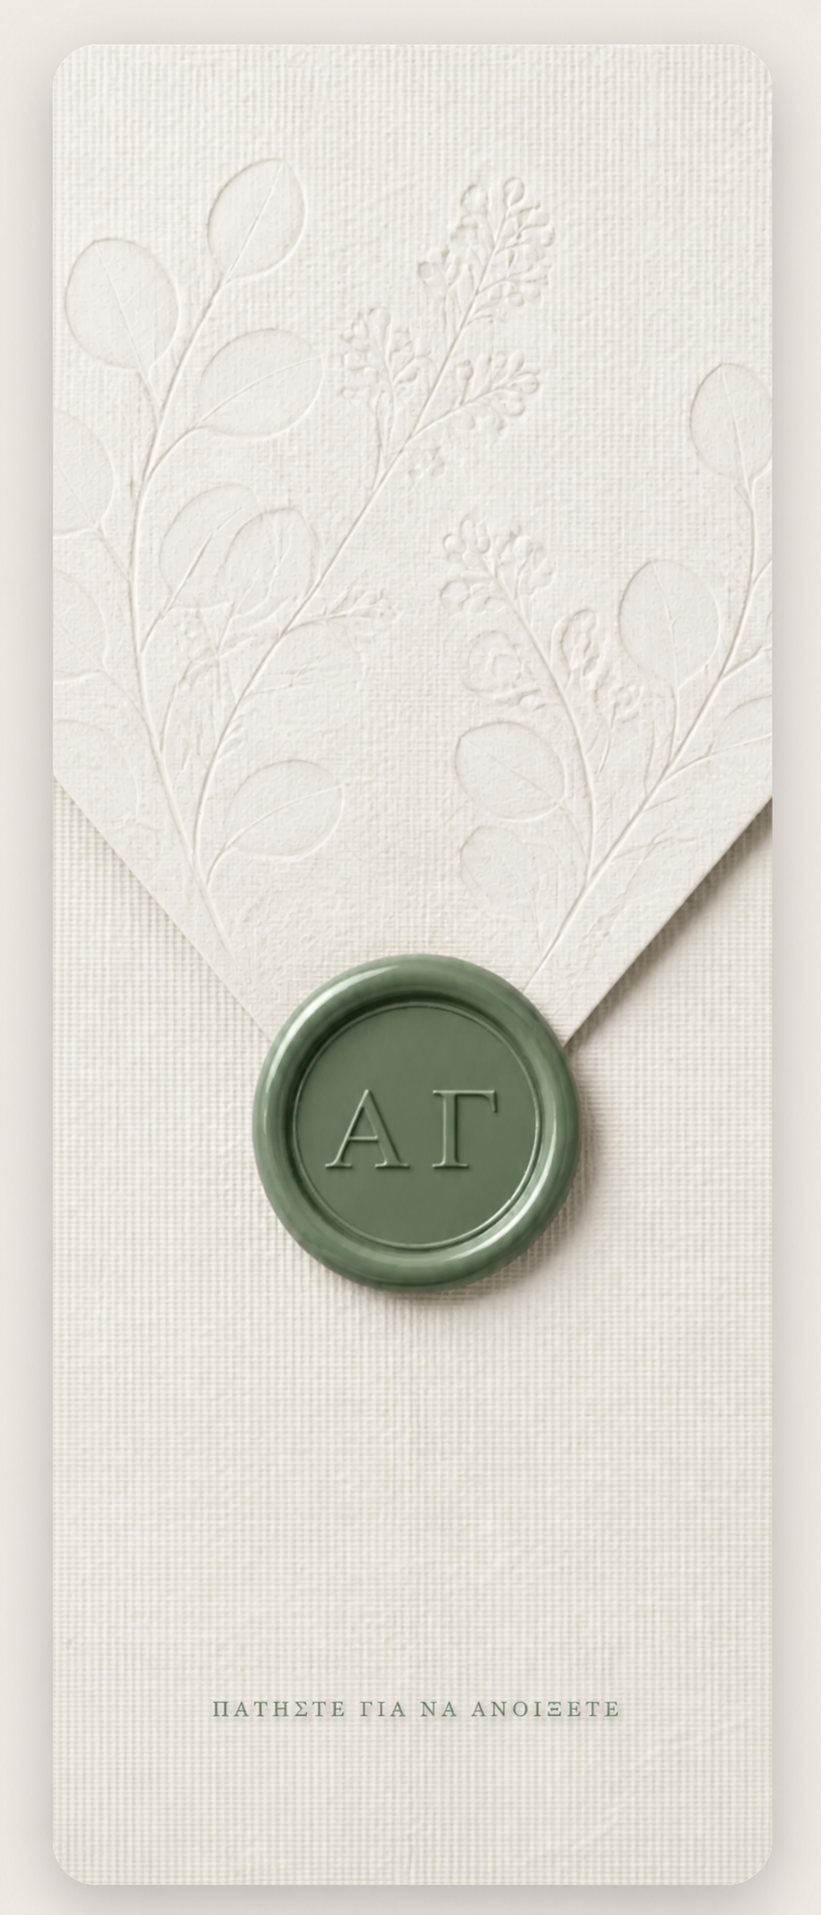
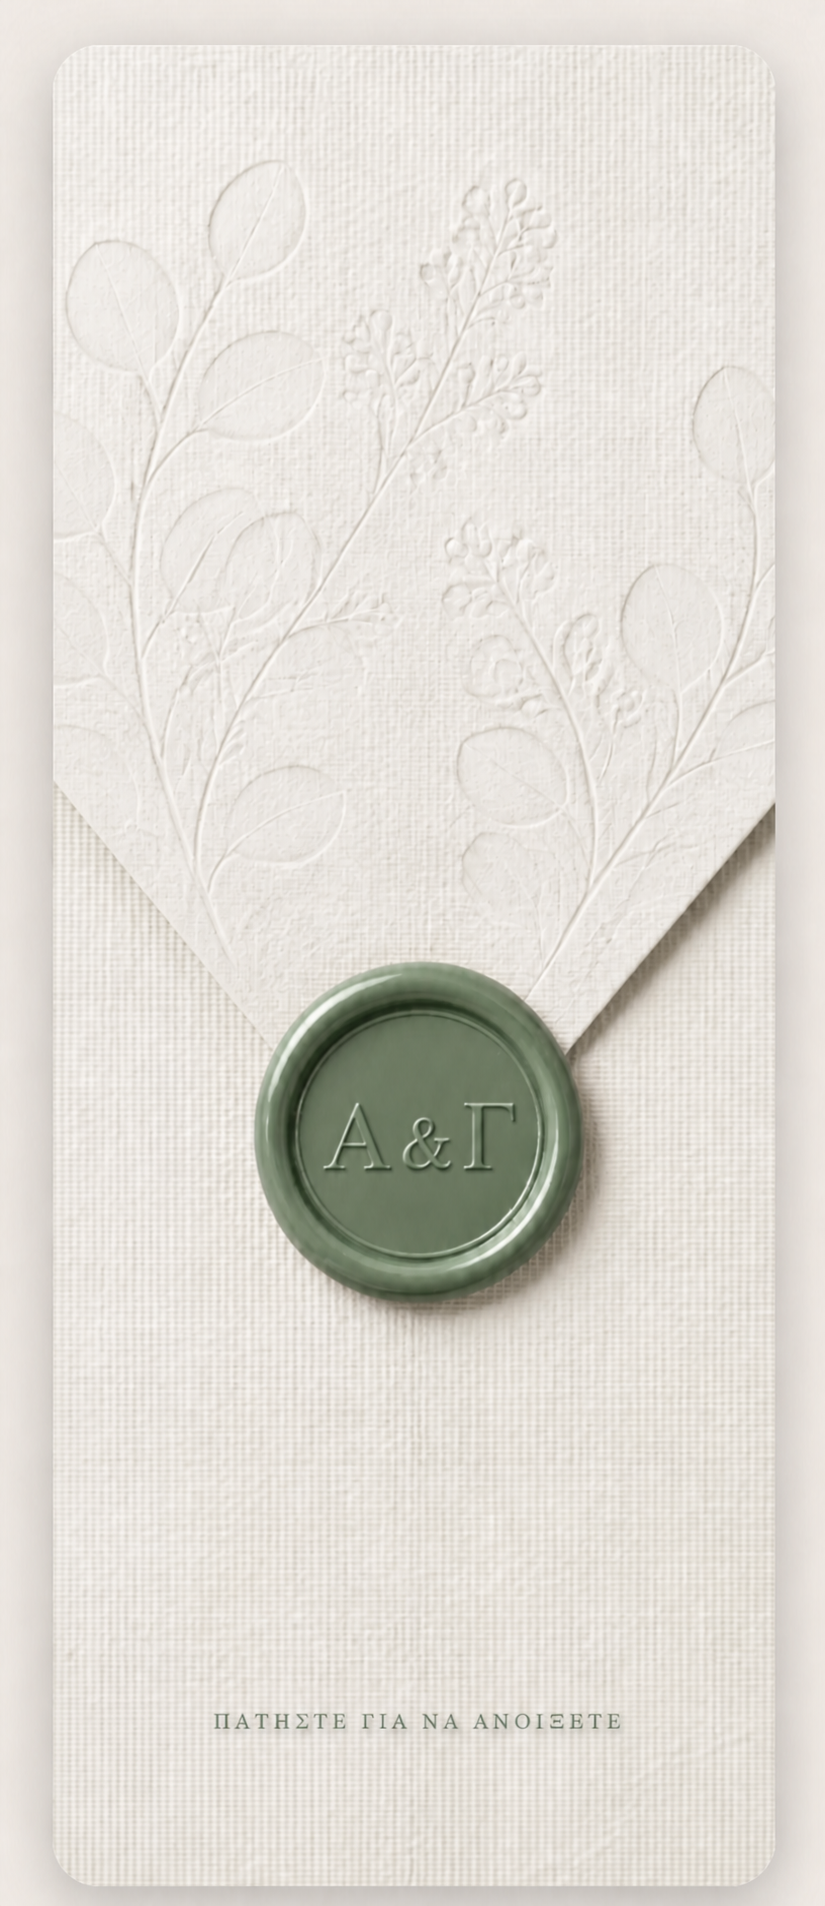
Apply final invitation revisions and engraved A & G seals

diff --git a/index.html b/index.html
@@ -1,10 +1,10 @@
-<!doctype html><html lang="el"><head><meta charset="utf-8"><meta http-equiv="Cache-Control" content="no-cache, no-store, must-revalidate"><meta http-equiv="Pragma" content="no-cache"><meta http-equiv="Expires" content="0"><meta name="viewport" content="width=device-width,initial-scale=1"><script>(function(){var n=performance.getEntriesByType&&performance.getEntriesByType('navigation')[0];var u=new URL(location.href);if(n&&n.type==='reload'&&!u.searchParams.has('_fresh')){u.searchParams.set('_fresh',Date.now());location.replace(u.href)}})()</script><meta name="theme-color" content="#566e55"><title>Αχιλλέας & Γεωργία | 08.11.2026</title><meta name="description" content="Το ηλεκτρονικό προσκλητήριο γάμου του Αχιλλέα και της Γεωργίας"><link rel="preconnect" href="https://fonts.googleapis.com"><link rel="preconnect" href="https://fonts.gstatic.com" crossorigin><link href="https://fonts.googleapis.com/css2?family=Great+Vibes&family=Noto+Serif:wght@300;400;500&display=swap" rel="stylesheet"><link rel="preload" href="envelope-ag-landscape.png?v=29" as="image" fetchpriority="high"><link rel="stylesheet" href="design.css?v=29"><link rel="stylesheet" href="fix.css?v=29"><link rel="stylesheet" href="contrast.css?v=29"><link rel="stylesheet" href="responsive.css?v=29"></head>
+<!doctype html><html lang="el"><head><meta charset="utf-8"><meta http-equiv="Cache-Control" content="no-cache, no-store, must-revalidate"><meta http-equiv="Pragma" content="no-cache"><meta http-equiv="Expires" content="0"><meta name="viewport" content="width=device-width,initial-scale=1"><script>(function(){var n=performance.getEntriesByType&&performance.getEntriesByType('navigation')[0];var u=new URL(location.href);if(n&&n.type==='reload'&&!u.searchParams.has('_fresh')){u.searchParams.set('_fresh',Date.now());location.replace(u.href)}})()</script><meta name="theme-color" content="#566e55"><title>Αχιλλέας & Γεωργία | 08.11.2026</title><meta name="description" content="Το ηλεκτρονικό προσκλητήριο γάμου του Αχιλλέα και της Γεωργίας"><link rel="preconnect" href="https://fonts.googleapis.com"><link rel="preconnect" href="https://fonts.gstatic.com" crossorigin><link href="https://fonts.googleapis.com/css2?family=Great+Vibes&family=Noto+Serif:wght@300;400;500&display=swap" rel="stylesheet"><link rel="preload" href="envelope-ag-landscape.png?v=33" as="image" fetchpriority="high"><link rel="stylesheet" href="design.css?v=33"><link rel="stylesheet" href="fix.css?v=33"><link rel="stylesheet" href="contrast.css?v=33"><link rel="stylesheet" href="responsive.css?v=33"></head>
 <body class="locked"><section class="intro" id="intro"><button class="envelope" id="envelope" aria-label="Ανοίξτε το προσκλητήριο"><span class="env-back"></span><span class="letter"><img src="printed-invitation.jpg" alt="Έντυπο προσκλητήριο Αχιλλέα και Γεωργίας"></span><span class="env-front"></span><span class="flap"></span><span class="seal">Α &amp; Γ</span></button><p class="tap">Πατήστε τη σφραγίδα</p></section>
 <main id="content" aria-hidden="true">
   <section class="date-hero section"><img class="scroll-flower flower-top" data-base="-18" src="flower-sprig.png?v=2" alt=""><img class="scroll-flower flower-bottom" data-base="162" src="flower-sprig.png?v=2" alt=""><div class="date-stack reveal-down" aria-label="Αχιλλέας και Γεωργία, 8 Νοεμβρίου 2026"><span class="hero-number">08</span><b class="groom-name">Αχιλλέας</b><div class="middle-date"><span class="hero-number">11</span><i>&amp;</i></div><b class="bride-name">Γεωργία</b><span class="hero-number">26</span></div></section>
   <section class="countdown-section section reveal-up" id="countdown"><h2>Και μετράμε αντίστροφα για τον γάμο μας!</h2><div class="countdown"><div><b id="days">—</b><small>Ημέρες</small></div><div><b id="hours">—</b><small>Ώρες</small></div><div><b id="minutes">—</b><small>Λεπτά</small></div><div><b id="seconds">—</b><small>Δ/λεπτα</small></div></div></section>
-  <section class="invitation section floral-section"><div class="photo-panel"></div><div class="invite-card"><p class="verse">«…πάντα στέγει, πάντα πιστεύει,<br>πάντα ελπίζει, πάντα υπομένει.<br>η αγάπη ουδέποτε εκπίπτει»</p><span class="divider">❧ ♥ ❧</span><p>Την ημέρα που ο Θεός θα ευλογήσει<br>το καινούργιο μας ξεκίνημα,<br>θα ήταν μεγάλη χαρά για μας<br>η παρουσία και η προσευχή σας<br>στο μυστήριο του γάμου μας</p><h1><span>Αχιλλέας</span><i>&amp;</i><span>Γεωργία</span></h1><h3>την Κυριακή 8 Νοεμβρίου 2026</h3><p class="ceremony-copy">και ώρα 13:00<br>στον Ιερό Ναό Αγίου Νικολάου<br>Λαγυνών</p><div class="people"><div><h2>Οικογένειες</h2><p>Αντωνίου &amp; Ελένης Νοβρατίδη<br>Γρηγορίου &amp; Αικατερίνης Μπάγκαβου</p></div><div><h2>Κουμπάροι</h2><p>Αλέξανδρος &amp; Μαρία Δήμου</p></div></div></div></section>
-  <section class="wedding-day section reveal-up"><h2>Η Μέρα του Γάμου</h2><span class="day-star">✦</span><div class="day-cards"><article class="day-card"><span class="day-icon">❀</span><h3>Γάμος</h3><strong>1:00 μ.μ.</strong><p>8 Νοεμβρίου 2026</p><h4>Ιερός Ναός Αγίου Νικολάου</h4><p>Λαγυνά</p><a target="_blank" rel="noopener" href="https://www.google.com/maps/search/?api=1&query=%CE%99%CE%B5%CF%81%CF%8C%CF%82+%CE%9D%CE%B1%CF%8C%CF%82+%CE%91%CE%B3%CE%AF%CE%BF%CF%85+%CE%9D%CE%B9%CE%BA%CE%BF%CE%BB%CE%AC%CE%BF%CF%85+%CE%9B%CE%B1%CE%B3%CF%85%CE%BD%CF%8E%CE%BD">📍 Δείτε στον χάρτη</a></article><article class="day-card"><span class="day-icon">♡</span><h3>Δεξίωση</h3><strong>Ακολουθεί</strong><p>Γεύμα &amp; Χορός</p><h4>Grand Salle</h4><p>Δρυμός</p><a target="_blank" rel="noopener" href="https://maps.app.goo.gl/nHdgFNsESnZWbSZi7">📍 Δείτε στον χάρτη</a></article></div></section>
+  <section class="invitation section floral-section"><div class="photo-panel"></div><div class="invite-card"><p>Την ημέρα που ο Θεός θα ευλογήσει<br>το καινούργιο μας ξεκίνημα,<br>θα ήταν μεγάλη χαρά για μας<br>η παρουσία και η προσευχή σας<br>στο μυστήριο του γάμου μας</p><h1><span>Αχιλλέας</span><i>&amp;</i><span>Γεωργία</span></h1><h3>την Κυριακή 8 Νοεμβρίου 2026</h3><p class="ceremony-copy">και ώρα 13:00<br>στον Ιερό Ναό Αγίου Νικολάου<br>Λαγυνών</p><div class="people"><div><h2>Οικογένειες</h2><p>Αντωνίου &amp; Ελένης Νοβρατίδη<br>Γρηγορίου &amp; Αικατερίνης Μπάγκαβου</p></div><div><h2>Κουμπάροι</h2><p>Αλέξανδρος &amp; Μαρία Δήμου</p></div></div></div></section>
+  <section class="wedding-day section reveal-up"><h2>Η Μέρα του Γάμου</h2><span class="day-star">✦</span><div class="day-cards"><article class="day-card"><span class="day-icon">❀</span><h3>Γάμος</h3><strong>1:00 μ.μ.</strong><p>8 Νοεμβρίου 2026</p><h4>Ιερός Ναός Αγίου Νικολάου</h4><p>Λαγυνά</p><a target="_blank" rel="noopener" href="https://www.google.com/maps/search/?api=1&query=%CE%99%CE%B5%CF%81%CF%8C%CF%82+%CE%9D%CE%B1%CF%8C%CF%82+%CE%91%CE%B3%CE%AF%CE%BF%CF%85+%CE%9D%CE%B9%CE%BA%CE%BF%CE%BB%CE%AC%CE%BF%CF%85+%CE%9B%CE%B1%CE%B3%CF%85%CE%BD%CF%8E%CE%BD">📍 Δείτε στον χάρτη</a></article><article class="day-card"><span class="day-icon">♡</span><h3>Δεξίωση</h3><strong>Ακολουθεί</strong><p>Γεύμα &amp; Χορός</p><h4>Grand Salle</h4><p>Δρυμός</p><a target="_blank" rel="noopener" href="https://maps.app.goo.gl/nHdqFNsESnZWbSZi7">📍 Δείτε στον χάρτη</a></article></div></section>
   <section class="rsvp section reveal-up"><div class="rsvp-card"><h2>Σας περιμένουμε στη χαρά μας</h2><p>Παρακαλούμε ενημερώστε μας για την παρουσία σας στη δεξίωση<br>έως τις 18 Οκτωβρίου.</p><div class="rsvp-phones"><a href="tel:+306983738992">☎ Αχιλλέας: 698 373 8992</a><a href="tel:+306989740316">☎ Γεωργία: 698 974 0316</a></div><p>Ή συμπληρώνοντας την παρακάτω φόρμα</p><form id="rsvpForm"><label>Ονοματεπώνυμο<input name="name" required autocomplete="name"></label><label>Τηλέφωνο<input name="phone" type="tel" required autocomplete="tel"></label><fieldset><legend>Θα έρθετε στη δεξίωση;</legend><label class="choice"><input type="radio" name="attendance" value="Ναι" required> Ναι</label><label class="choice"><input type="radio" name="attendance" value="Όχι"> Όχι</label></fieldset><label>Αν ΝΑΙ, πόσα άτομα να σημειώσουμε;<select name="guests"><option>0</option><option>1</option><option>2</option><option>3</option><option>4</option><option>5</option><option>6</option><option>7</option><option>8</option><option>9</option></select></label><label>Κάτι που θέλετε να μας πείτε…<textarea name="message" rows="3"></textarea></label><button type="submit">Αποστολή</button><p id="formStatus" role="status"></p></form></div></section>
   <section class="gift section reveal-up"><p class="small-title">Προαιρετική Λίστα Γάμου</p><p class="gift-intro">Η παρουσία σας είναι το μεγαλύτερο δώρο για εμάς.<br><br>Εάν επιθυμείτε να μας χαρίσετε κάτι, θα χαρούμε να το κάνετε μέσω:</p><div class="gift-options"><div class="bank-card"><span class="bank-icon">€</span><h3>Eurobank</h3><button class="copy-gift" data-gift="IBAN" data-copy="GR8302604340000110201088906">GR83 0260 4340 0001 1020 1088 906</button><p class="copy-status">Πατήστε για αντιγραφή</p></div><div class="bank-card"><span class="bank-icon">€</span><h3>Τράπεζα Πειραιώς</h3><button class="copy-gift" data-gift="IBAN" data-copy="GR7601722490005249097664079">GR76 0172 2490 0052 4909 7664 079</button><p class="copy-status">Πατήστε για αντιγραφή</p></div><div class="bank-card"><span class="bank-icon">✦</span><h3>IRIS Payments</h3><button class="copy-gift" data-gift="IRIS" data-copy="6989740316">698 974 0316</button><p class="copy-status">Πατήστε για αντιγραφή</p></div></div><div class="gift-space" aria-hidden="true"></div></section>
   <section class="album section floral-bg"><h2>Οι στιγμές μας</h2><p>Βοηθήστε μας να δημιουργήσουμε ένα μοναδικό ψηφιακό άλμπουμ, γεμάτο χαμόγελα, συγκινήσεις και αυθόρμητες στιγμές!</p><button type="button" class="soft-button">Ανεβάστε φωτογραφίες</button><p id="uploadStatus" role="status"></p></section>

diff --git a/responsive.css b/responsive.css
@@ -22,8 +22,8 @@ footer.section{background:linear-gradient(145deg,#415847,#24382e)!important}foot
 @media(max-width:760px){.date-stack{line-height:.67!important}.date-stack b{font-size:clamp(3.55rem,16vw,5.5rem)!important;margin:-.16em 0 .03em!important}.date-stack i{font-size:2.1rem!important;margin:-.5em 0 .02em!important}.date-stack .bride-name{margin-top:.7em!important}.date-stack span{font-size:clamp(7.4rem,37vw,12rem)!important}.gift-options{display:grid!important;grid-template-columns:1fr!important}.gift-options .bank-card{width:100%;max-width:none;flex:auto}.scroll-flower{width:150px}.letter{width:min(88vw,520px)!important}}
 
 /* Exact reference envelope artwork; fades away while the real invitation rises. */
-.envelope:before{content:''!important;position:absolute!important;inset:0!important;width:100%!important;height:100%!important;z-index:9!important;background-color:#ebe5dd!important;background-image:url('envelope-ag-landscape.png?v=1')!important;background-position:center!important;background-repeat:no-repeat!important;background-size:cover!important;opacity:1!important;mix-blend-mode:normal!important;transition:opacity .8s .45s,transform 1.1s .25s!important}
-@media (max-aspect-ratio: 4/5){.envelope:before{background-image:url('envelope-ag.png?v=2')!important;background-size:cover!important}}
+.envelope:before{content:''!important;position:absolute!important;inset:0!important;width:100%!important;height:100%!important;z-index:9!important;background-color:#ebe5dd!important;background-image:url('envelope-ag-landscape.png?v=33')!important;background-position:center!important;background-repeat:no-repeat!important;background-size:cover!important;opacity:1!important;mix-blend-mode:normal!important;transition:opacity .8s .45s,transform 1.1s .25s!important}
+@media (max-aspect-ratio: 4/5){.envelope:before{background-image:url('envelope-ag.png?v=33')!important;background-size:cover!important}}
 .intro{inset:0!important;width:100vw!important;max-width:none!important;margin:0!important;padding:0!important}.envelope{position:absolute!important;inset:0!important;width:100vw!important;height:100svh!important;max-width:none!important;max-height:none!important;margin:0!important;border-radius:0!important}
 .envelope.is-open:before{opacity:0!important;transform:scale(1.015)!important}
 .tap{display:none!important}
@@ -58,4 +58,3 @@ footer.section{background:linear-gradient(145deg,#415847,#24382e)!important}foot
 .invite-card h1{display:flex;flex-direction:column;align-items:center;gap:.08em}.invite-card h1 span,.invite-card h1 i{display:block}.invite-card h1 i{font-size:.55em;color:var(--green-dark)!important;margin:.05em 0}.invite-card h3,.ceremony-copy{font-size:clamp(1.25rem,2.1vw,1.8rem)!important;line-height:1.75!important}
 .wedding-day{background:#e8eee7;padding-top:clamp(75px,9vw,120px);padding-bottom:clamp(75px,9vw,120px)}.wedding-day>h2{font-family:'GFS Didot','Noto Serif',serif!important;font-weight:600!important;font-size:clamp(2.8rem,6vw,5.5rem)!important;color:#7e9a7c!important}.day-star{display:block;font-size:2rem;color:#b8c9b5;margin:15px 0 55px}.day-cards{display:grid;grid-template-columns:repeat(2,minmax(0,1fr));gap:clamp(24px,4vw,55px);max-width:1050px;margin:auto}.day-card{display:flex;min-height:610px;flex-direction:column;align-items:center;justify-content:center;padding:clamp(38px,5vw,70px) 28px;background:#fff;border-radius:26px;box-shadow:0 18px 40px #40574620}.day-icon{font-size:3rem;color:#86a584}.day-card h3{font:600 clamp(2.1rem,4vw,3.2rem) 'GFS Didot','Noto Serif',serif;margin:35px 0}.day-card strong{font:italic 400 clamp(1.7rem,3vw,2.5rem) 'GFS Olga','GFS Didot',serif;color:#8fab8d}.day-card p{font-size:clamp(1rem,1.7vw,1.25rem);color:#8c9f8c;margin:22px 0}.day-card h4{font:400 clamp(1.35rem,2.4vw,2rem) 'GFS Didot','Noto Serif',serif;margin:18px 0}.day-card a{display:inline-block;margin-top:24px;padding:16px 32px;border-radius:999px;background:#86a584;color:#fff;text-decoration:none;font-weight:500;box-shadow:0 8px 18px #40574628}.gift-options{display:grid!important;grid-template-columns:repeat(3,minmax(0,1fr))!important;gap:24px!important}.gift-options .bank-card{width:auto!important;max-width:none!important;min-width:0!important;flex:auto!important;padding:42px 18px!important}.copy-gift{overflow-wrap:anywhere;line-height:1.65!important}.rsvp-card>h2{font-family:'GFS Didot','Noto Serif',serif!important;font-size:clamp(2.5rem,5vw,4.5rem)!important;line-height:1.15!important}
 @media(max-width:760px){.day-cards{grid-template-columns:1fr}.day-card{min-height:520px}.gift-options{grid-template-columns:1fr!important}.wedding-day{padding-left:6%!important;padding-right:6%!important}.invite-card h1{font-size:clamp(3.4rem,16vw,5rem)!important}.ceremony-copy{font-size:1.22rem!important}}
-.envelope:after{content:'Α & Γ';position:absolute;z-index:11;left:50%;top:58.2%;transform:translate(-50%,-50%);display:grid;place-items:center;width:clamp(90px,8vw,150px);height:clamp(90px,8vw,150px);border-radius:50%;background:radial-gradient(circle at 36% 30%,#73866f,#536b55 70%,#435a47);color:#d8ded3;font:400 clamp(.95rem,1.6vw,1.4rem) 'GFS Didot','Noto Serif',serif;letter-spacing:.08em;text-shadow:0 1px #263c2d;box-shadow:inset 0 0 0 3px #ffffff12;transition:opacity .7s .35s}.envelope.is-open:after{opacity:0}@media(max-aspect-ratio:4/5){.envelope:after{top:58.5%;width:92px;height:92px;font-size:1rem}}
